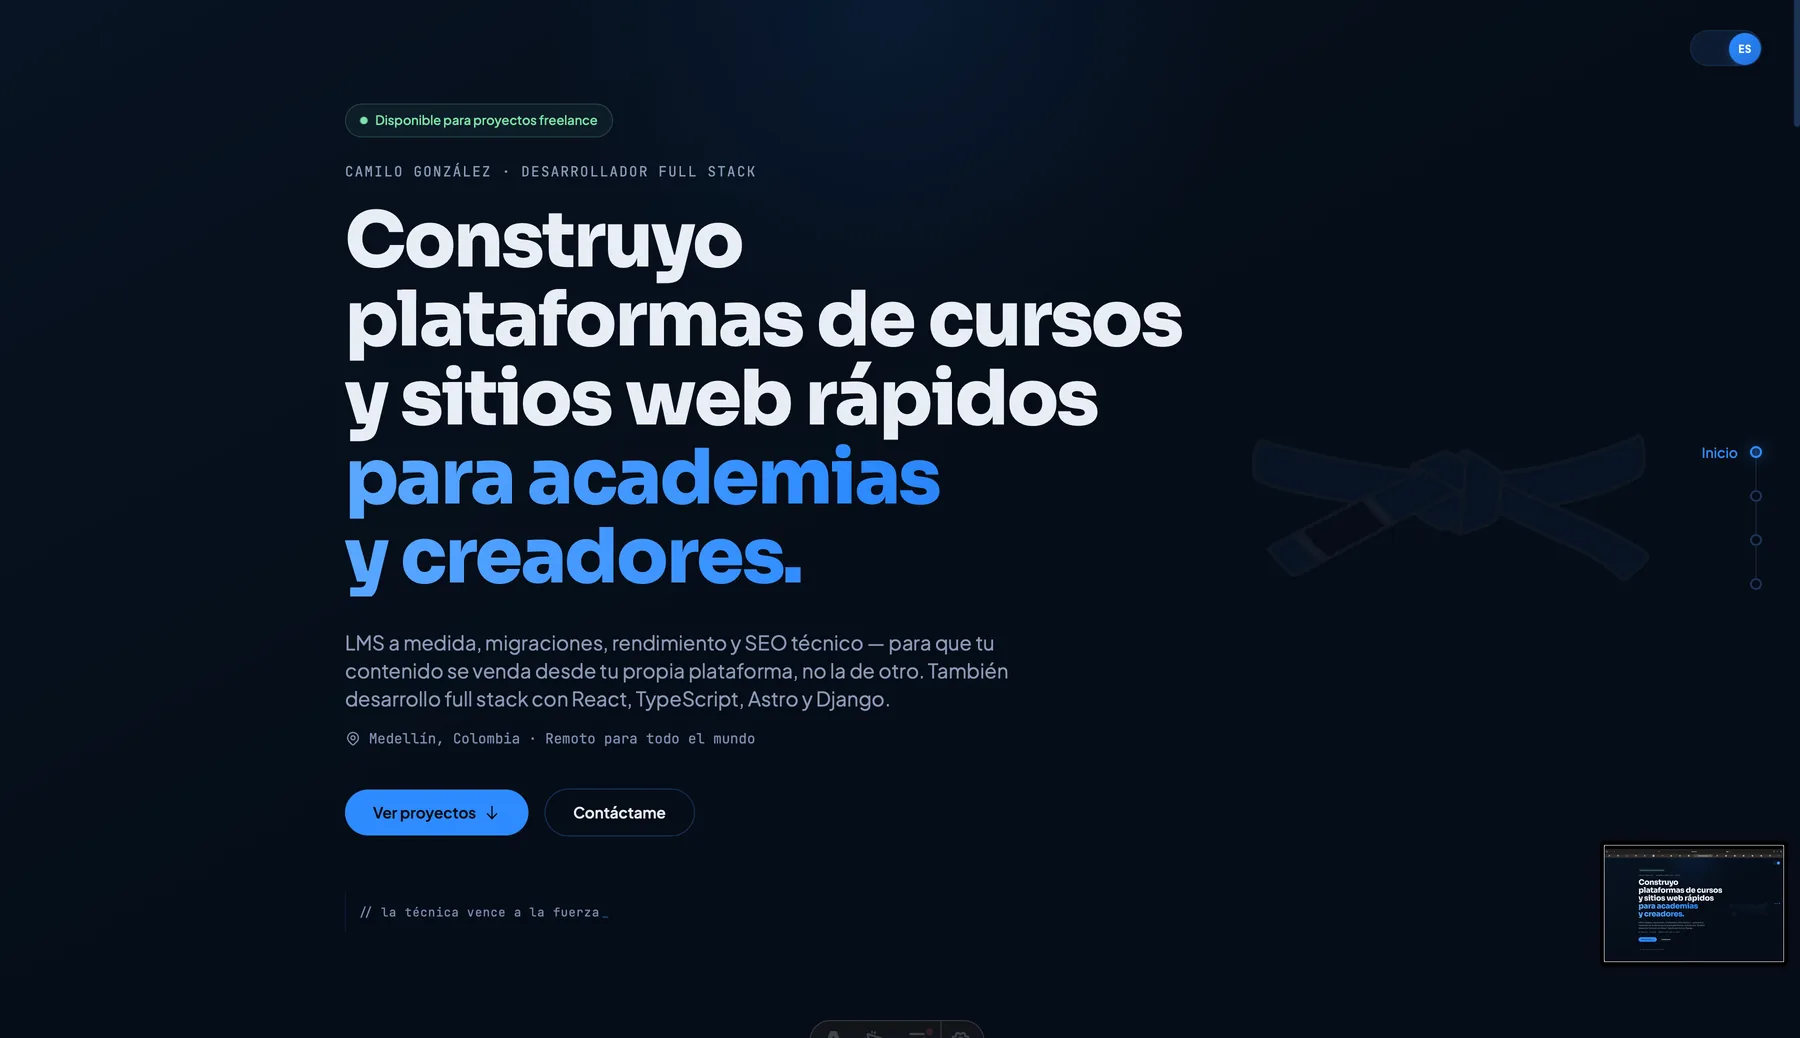
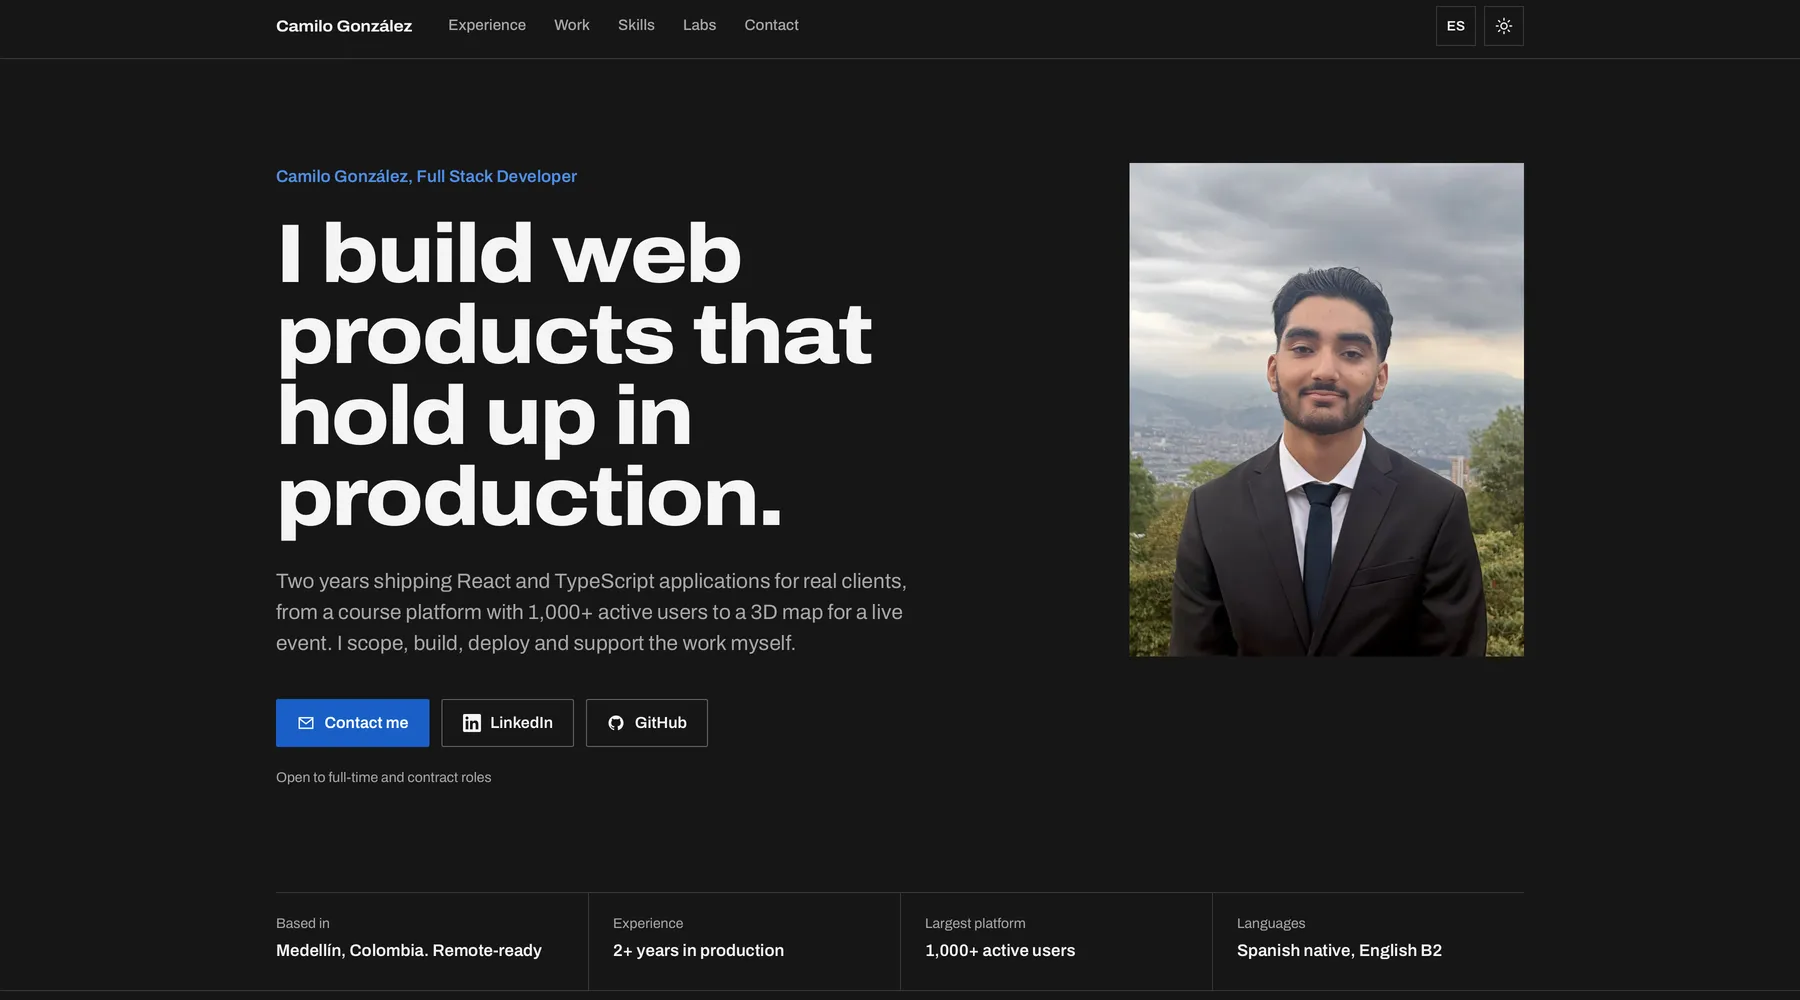
docs: refresh README and preview for the corporate redesign

diff --git a/README.md b/README.md
@@ -1,10 +1,10 @@
-<img width="1800" alt="Zeiko Portfolio — hero" src="docs/preview.webp" />
+<img width="1800" alt="Portfolio hero: headline, portrait and key facts in the dark theme" src="docs/preview.webp" />
 
 # Zeiko Portfolio
 
 The personal portfolio of Camilo González (ZeikoDev), a full-stack developer based in Medellín, Colombia.
 
-Built with Astro and shipped as a static site. The design is a corporate, grid-based system: a single typeface (Archivo, variable width), blue as the only accent, dark theme by default with a light theme toggle, and a portrait in the hero.
+Built with Astro, shipped as a static site and deployed on Cloudflare Pages ([zeiko.dev](https://zeiko.dev)). The design is a corporate, grid-based system: a single typeface (Archivo, variable width), blue as the only accent, dark theme by default with a light theme toggle, and a portrait in the hero.
 
 ## Features
 
@@ -23,7 +23,8 @@ Built with Astro and shipped as a static site. The design is a corporate, grid-b
 - [Astro](https://astro.build) - Static site generation
 - [Tailwind CSS](https://tailwindcss.com) - Utility-first CSS
 - [TypeScript](https://www.typescriptlang.org) - Type safety
-- [sharp](https://sharp.pixelplumbing.com) - Image optimization for project screenshots (`.webp`)
+- [sharp](https://sharp.pixelplumbing.com) - Image optimization for screenshots and the portrait (`.webp`)
+- [Cloudflare Pages](https://pages.cloudflare.com) - Hosting, with a preview deployment for every branch
 
 The `@astrojs/react` integration is still configured, but no React components remain in `src/` after the UI overhaul.
 
@@ -78,7 +79,8 @@ zeiko-portfolio/
 ├── docs/                        # Repo-only assets (README preview)
 ├── public/                      # Static assets served as-is
 │   ├── assets/projects/         # Project screenshots
-│   └── favicon.svg              # CG monogram
+│   ├── assets/camilo-gonzalez.webp  # Hero portrait
+│   └── favicon.svg              # Blue square favicon
 ├── src/
 │   ├── components/
 │   │   ├── sections/            # Page sections
@@ -142,11 +144,11 @@ Projects section. Set `hasDetailPage: true` and add a matching `.astro` file und
 
 ### Colors
 
-The color scheme can be customized in `tailwind.config.mjs`. The current theme uses:
+Colors are design tokens defined as RGB triplets in `src/styles/tokens.css` and exposed to Tailwind in `tailwind.config.mjs` (`bg`, `surface`, `rule`, `fg`, `fg-2`, `blue`, `blue-block`).
 
-- Deep navy backgrounds
-- Electric blue accents
-- White/light gray text
+- Dark theme (default): neutral grays from `#161616`, text `#F4F4F4`, blue `#4D8FE8`
+- Light theme: white and `#F4F4F4` surfaces, text `#161616`, blue `#1A5FC7`
+- Solid blue blocks (buttons, contact): `#1A5FC7`
 
 ### Content
 
@@ -154,8 +156,9 @@ Most copy lives in `src/i18n/ui.json`, so both languages stay in sync. Everythin
 
 - `src/data/projects.ts` - Client work (name, tag, problem, solution, result, tech, image)
 - `src/data/personalProjects.ts` - Side projects
-- `src/data/site.ts` - Contact email
-- `Hero.astro` / `About.astro` / `Skills.astro` - Section-specific markup and structure
+- `src/data/experience.ts` - Roles, education, certifications and languages
+- `src/data/site.ts` - Name, email and social links
+- `Skills.astro` - The skills matrix rows
 
 Project screenshots go in `public/assets/projects/` as `.webp`, around 1600px wide.
 
@@ -173,11 +176,10 @@ Project screenshots go in `public/assets/projects/` as `.webp`, around 1600px wi
 | `npm run format`          | Format the project with Prettier                 |
 | `npm run astro ...`       | Run CLI commands like `astro add`, `astro check` |
 
+## Deployment
+
+Cloudflare Pages builds the site from GitHub with `npm run build` and serves `dist/`. Every pushed branch gets its own preview URL, and merging to `main` deploys to production.
+
 ## License
 
 This project is licensed under the MIT License - see the [LICENSE](LICENSE) file for details.
-
-## Acknowledgments
-
-- Design elements inspired by modern web trends
-- Icons from various open-source icon sets
